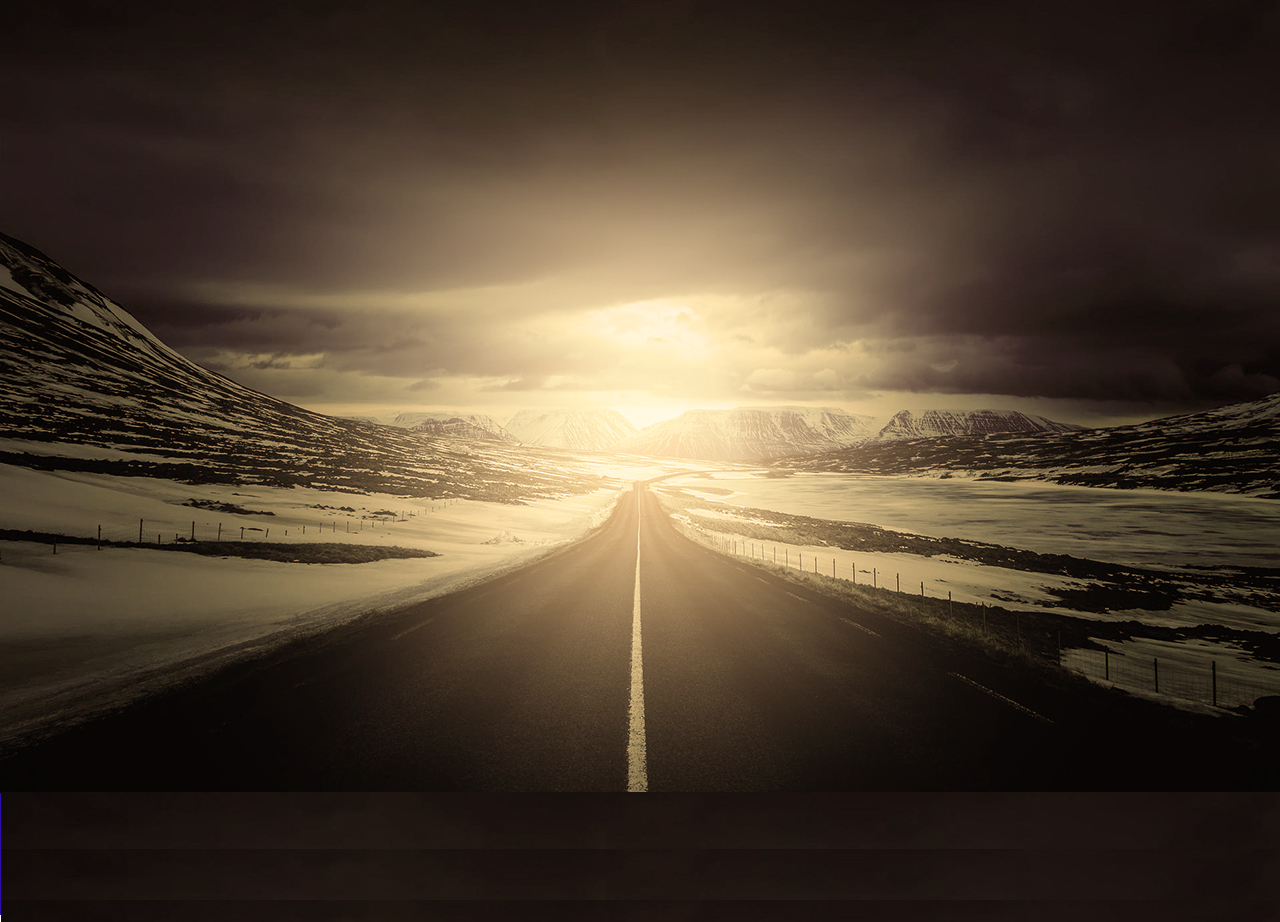
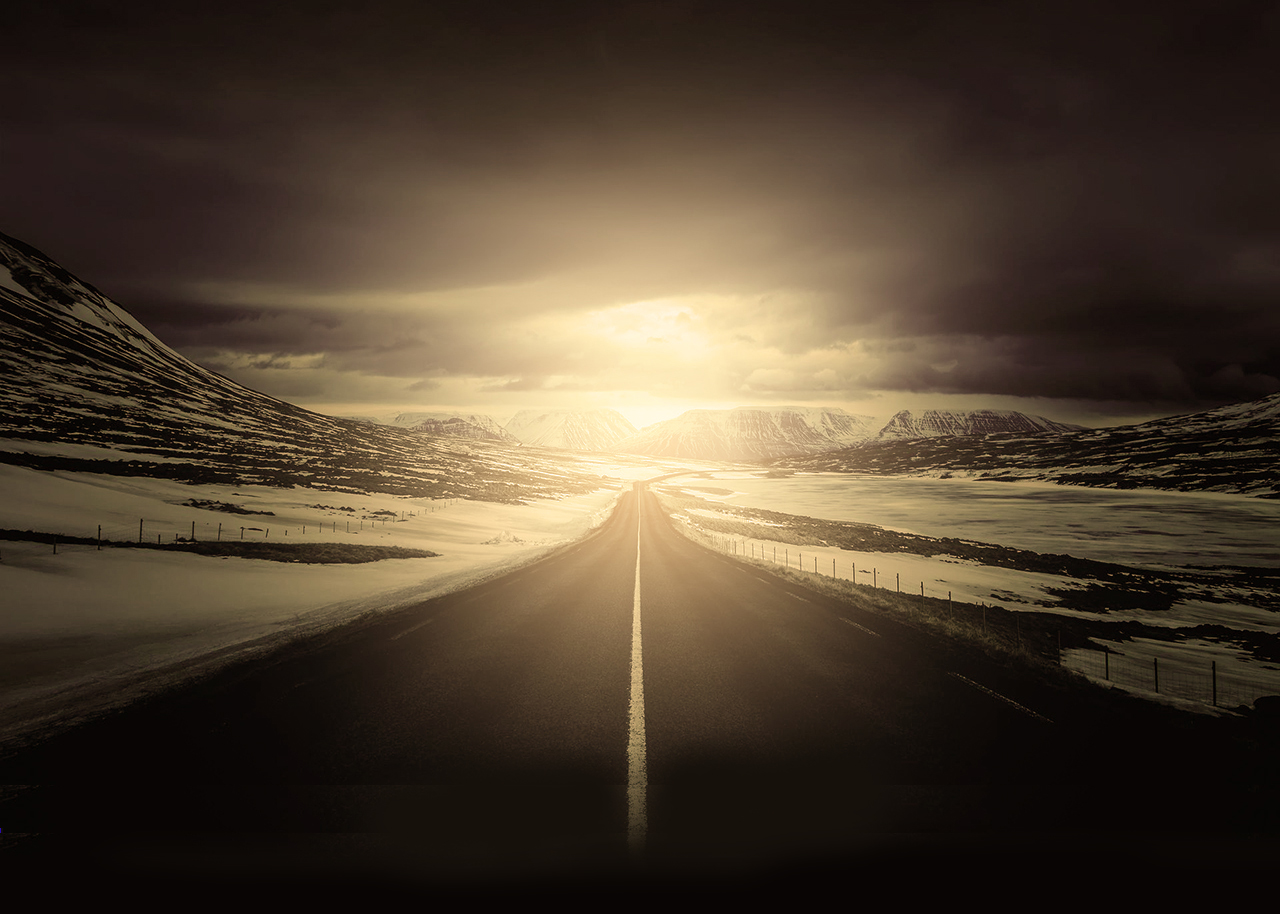
Enhanced UX

diff --git a/css/main.css b/css/main.css
@@ -5,6 +5,7 @@
    ========================================================================= */
 #preloader { position: fixed; left: 0; top: 0; z-index: 999; width: 100%; height: 100%; overflow: visible; background: #333 url('http://files.mimoymima.com/images/loading.gif') no-repeat center center; }
 #preloader div {position: absolute; left: 40%; top: 40%;}
+.shadow-inside {position: absolute; left: 0; bottom: 0; pointer-events: none; width: 100%; height: 600px; z-index: 99; background: linear-gradient(rgba(0,0,0,0), rgba(0,0,0,1))}
 /* ==========================================================================
     L  I  N  K   S  T  Y  L  E
    ========================================================================== */

diff --git a/mm/dragunov.html b/mm/dragunov.html
@@ -7,7 +7,7 @@
 </head>
 <body>
     <script>
-        marmoset.embed( 'dragunov.mview', { width: 800, height: 600, autoStart: false, fullFrame: false, pagePreset: false } );
+        marmoset.embed( 'dragunov.mview', { width: 600, height: 480, autoStart: false, fullFrame: false, pagePreset: false } );
     </script>
 </body>
 </html>

diff --git a/mm/Z3mf.html b/mm/Z3mf.html
@@ -7,7 +7,7 @@
 </head>
 <body>
     <script>
-        marmoset.embed( 'Z3mf.mview', { width: 800, height: 600, autoStart: false, fullFrame: false, pagePreset: false } );
+        marmoset.embed( 'Z3mf.mview', { width: 600, height: 480, autoStart: false, fullFrame: false, pagePreset: false } );
     </script>
 </body>
 </html>

diff --git a/index.php b/index.php
@@ -362,14 +362,20 @@
     </div>
 </div>
 <!--Z3MF-->
-<div class="row center" id="portfolio">
-    <div class="col s12 l12 left" >
-        <iframe src="mm/Z3mf.html" frameborder="0" webkitallowfullscreen mozallowfullscreen scrolling="no" style="overflow-y: hidden; width:75%;" allowfullscreen height="600"></iframe>
-    </div>
-</div>
+<!--<div class="row center" id="portfolio">-->
+<!--    <div class="col s12 l12 left" >-->
+<!--        <iframe src="mm/Z3mf.html" frameborder="0" webkitallowfullscreen mozallowfullscreen scrolling="no" style="overflow-y: hidden; width:50%;" allowfullscreen height="480"></iframe>-->
+<!--    </div>-->
+<!--</div>-->
 <!--Z3MF Details-->
 <div class="row">
-    <div class="col s12 m4 l4 left">
+    <div class="col s12 m6 l6 left">
+        <h5>Z3MF - Assault Rifle</h5>
+        <h6>Duration: 32 Hours</h6>
+        <hr class="left" style="width: 140px;"><br>
+
+        Z3MF is an automatic assault rifle. The Z3MF is a 5.56?45mm NATO, air-cooled, direct impingement gas-operated, magazine-fed.
+        It has a 26 inch barrel and a iron-sight stock. It also has a grenade launcher which fires 40mm x 46 HEPD-SD M99 (Point Detonating) grenade.
         <div class="grid" >
             <div class="grid-sizer"></div>
             <div class="grid-item">
@@ -399,34 +405,41 @@
             </div>
         </div>
     </div>
-    <div class="col s12 m5 l5 left">
-        <h5>Z3MF - Assault Rifle</h5>
-        <h6>Duration: 32 Hours</h6>
-        <hr class="left" style="width: 140px;"><br>
-
-        Z3MF is an automatic assault rifle. The Z3MF is a 5.56?45mm NATO, air-cooled, direct impingement gas-operated, magazine-fed.
-        It has a 26 inch barrel and a iron-sight stock. It also has a grenade launcher which fires 40mm x 46 HEPD-SD M99 (Point Detonating) grenade.
-    </div>
-    <div class="col s12 m3 l3 left">
-        <h5>Softwares Used</h5>
+<!--    <div class="col s12 m3 l3 left">-->
+<!--        <h5>Z3MF - Assault Rifle</h5>-->
+<!--        <h6>Duration: 32 Hours</h6>-->
+<!--        <hr class="left" style="width: 140px;"><br>-->
+<!---->
+<!--        Z3MF is an automatic assault rifle. The Z3MF is a 5.56?45mm NATO, air-cooled, direct impingement gas-operated, magazine-fed.-->
+<!--        It has a 26 inch barrel and a iron-sight stock. It also has a grenade launcher which fires 40mm x 46 HEPD-SD M99 (Point Detonating) grenade.-->
+<!--    </div>-->
+    <div class="col s12 m6 l6 left">
+        <h5>Interactive Model</h5>
         <hr class="left" style="width: 140px;"><br>
         <div class="row">
-            <div class="col s4 m4 l4 center"><img width="32" src="img/icon/soft/3dsmax.png" /><h6 class="light">3Ds Max</h6><br></div>
-            <div class="col s4 m4 l4 center"><img width="32" src="img/icon/soft/substance.png" /><h6 class="light">Substance Painter</h6><br></div>
-            <div class="col s4 m4 l4 center"><img width="32" src="img/icon/soft/cc.png" /><h6 class="light">AdobeSuite</h6><br></div>
+                <iframe src="mm/Z3mf.html" frameborder="0" webkitallowfullscreen mozallowfullscreen scrolling="no" style="overflow-y: hidden; width:100%;" allowfullscreen height="480"></iframe>
+<!--            <div class="col s4 m4 l4 center"><img width="32" src="img/icon/soft/3dsmax.png" /><h6 class="light">3Ds Max</h6><br></div>-->
+<!--            <div class="col s4 m4 l4 center"><img width="32" src="img/icon/soft/substance.png" /><h6 class="light">Substance Painter</h6><br></div>-->
+<!--            <div class="col s4 m4 l4 center"><img width="32" src="img/icon/soft/cc.png" /><h6 class="light">AdobeSuite</h6><br></div>-->
         </div>
     </div>
 </div>
 
 <!--Dragunov-->
-<div class="row center " id="portfolio">
-    <div class="col s12 l12 left" >
-        <iframe src="mm/dragunov.html" frameborder="0" webkitallowfullscreen mozallowfullscreen scrolling="no" style="overflow-y: hidden; width:75%; margin: 0 100px" allowfullscreen height="600" ></iframe>
-    </div>
-</div>
+<!--<div class="row center " id="portfolio">-->
+<!--    <div class="col s12 l12 left" >-->
+<!---->
+<!--    </div>-->
+<!--</div>-->
 <!--Dragunov Details-->
 <div class="row">
-    <div class="col s12 m4 l4 left">
+    <div class="col s12 m6 l6 left">
+        <h5>Dragunov SVD - Sniper Rifle</h5>
+        <h6>Duration: 38 Hours</h6>
+        <hr class="left" style="width: 140px;"><br>
+        Dragunov SVD is a semi-automatic sniper/designated marksman rifle chambered in 7.62x54mmR.
+        <br>
+        <br>
         <div class="grid" >
             <div class="grid-sizer"></div>
             <div class="grid-item">
@@ -451,19 +464,20 @@
             </div>
         </div>
     </div>
-    <div class="col s12 m5 l5 left">
-        <h5>Dragunov SVD - Sniper Rifle</h5>
-        <h6>Duration: 38 Hours</h6>
-        <hr class="left" style="width: 140px;"><br>
-            Dragunov SVD is a semi-automatic sniper/designated marksman rifle chambered in 7.62?54mmR.
-        </div>
-    <div class="col s12 m3 l3 left">
-        <h5>Softwares Used</h5>
+<!--    <div class="col s12 m3 l3 left">-->
+<!--        <h5>Dragunov SVD - Sniper Rifle</h5>-->
+<!--        <h6>Duration: 38 Hours</h6>-->
+<!--        <hr class="left" style="width: 140px;"><br>-->
+<!--            Dragunov SVD is a semi-automatic sniper/designated marksman rifle chambered in 7.62x54mmR.-->
+<!--    </div>-->
+    <div class="col s12 m6 l6 left">
+        <h5>Interactive Model</h5>
         <hr class="left" style="width: 140px;"><br>
         <div class="row">
-            <div class="col s4 m4 l4 center"><img width="32" src="img/icon/soft/3dsmax.png" /><h6 class="light">3Ds Max</h6><br></div>
-            <div class="col s4 m4 l4 center"><img width="32" src="img/icon/soft/substance.png" /><h6 class="light">Substance Painter</h6><br></div>
-            <div class="col s4 m4 l4 center"><img width="32" src="img/icon/soft/cc.png" /><h6 class="light">AdobeSuite</h6><br></div>
+            <iframe src="mm/dragunov.html" frameborder="0" webkitallowfullscreen mozallowfullscreen scrolling="no" style="overflow-y: hidden; width:100%;" allowfullscreen height="480" ></iframe>
+<!--            <div class="col s4 m4 l4 center"><img width="32" src="img/icon/soft/3dsmax.png" /><h6 class="light">3Ds Max</h6><br></div>-->
+<!--            <div class="col s4 m4 l4 center"><img width="32" src="img/icon/soft/substance.png" /><h6 class="light">Substance Painter</h6><br></div>-->
+<!--            <div class="col s4 m4 l4 center"><img width="32" src="img/icon/soft/cc.png" /><h6 class="light">AdobeSuite</h6><br></div>-->
         </div>
     </div>
 </div>
@@ -475,9 +489,9 @@
 
 
 <!--ShowReel VR-->
-<div class="row center hide-on-small-only" style="background-color: #333" id="portfolio">
+<div class="row center hide-on-small-only"  id="portfolio">
     <div class="col s12 l12 left">
-        <iframe src="https://player.vimeo.com/video/119261068?color=00ffcc&title=0&byline=0&portrait=0" width="480" height="320" frameborder="0" webkitallowfullscreen mozallowfullscreen allowfullscreen></iframe>
+        <iframe src="https://player.vimeo.com/video/119261068?color=00ffcc&title=0&byline=0&portrait=0" width="600" height="480" frameborder="0" webkitallowfullscreen mozallowfullscreen allowfullscreen></iframe>
     </div>
     <div class="col s12 l4 offset-l4">
         <h5>VR Showreel</h5>
@@ -487,7 +501,7 @@
     </div>
 </div>
 <!--Prince VR-->
-<div class="row" style="background-color: #333">
+<div class="row" >
     <div class="col s12 m4 l4 left">
         <div class="grid" >
             <div class="grid-sizer"></div>
@@ -524,10 +538,10 @@
         </div>
     </div>
     <div class="col s12 m5 l5 left">
-        <h5>CBL PRINCE? VR </h5>
+        <h5>CBL PRINCE&trade; VR </h5>
         <h6>Project Duration : 2 Months</h6>
         <hr class="left" style="width: 140px;"><br>
-        CBL Prince? VR Experience developed for Mall Activation in Karachi. All content from 3D Modelling to UE4 cooking process done by me.
+        CBL Prince&trade; VR Experience developed for Mall Activation in Karachi. All content from 3D Modelling to UE4 cooking process done by me.
     </div>
     <div class="col s12 m3 l3 left">
         <h5>Softwares Used</h5>
@@ -543,7 +557,7 @@
     </div>
 </div   >
 <!--TUC VR Ride-->
-<div class="row" style="background-color: #333">
+<div class="row">
     <div class="col s12 m4 l4 left">
         <div class="grid" >
             <div class="grid-sizer"></div>
@@ -569,7 +583,7 @@
             </div>
             <div class="grid-item">
                 <a href="img/portfolio/tucVR/5.png" data-lightbox="prince" data-title="Prince VR Experience">
-                    <img src="img/portfolio/tucVR/5.png" />
+                    <img 6src="img/portfolio/tucVR/5.png" />
                 </a>
             </div><div class="grid-item">
                 <a href="img/portfolio/tucVR/6.png" data-lightbox="prince" data-title="Prince VR Experience">
@@ -584,10 +598,11 @@
         </div>
     </div>
     <div class="col s12 m5 l5 left">
-        <h5>CBL TUC? VR RIDE</h5>
+        <h5>CBL TUC&trade; VR RIDE</h5>
         <h6>Project Duration : 1 Month</h6>
         <hr class="left" style="width: 140px;"><br>
-        TUC VR Ride is a VR experience developed for TUC LU?.
+        TUC VR Ride is a VR experience developed for TUC LU. I developed it for an BTL activation,
+        Everything in this project was developand designed by me
     </div>
     <div class="col s12 m3 l3 left">
         <h5>Softwares Used</h5>
@@ -627,7 +642,7 @@
         </div>
     </div>
     <div class="col s12 m5 l5 left">
-        <h5>CBL TUC? Vending Machine</h5>
+        <h5>CBL TUC&trade; Vending Machine</h5>
         <h6>Project Duration : 10 Days</h6>
         <hr class="left" style="width: 140px;"><br>
         Vending Machine is one of the greatest interactive user experience of our company that gave end user options of choosing favorite topping flavor.
@@ -719,23 +734,17 @@
 </div>
 
 <!--Other Projects-->
-<!--ShowReel VR-->
 <div class="row center hide-on-small-only" style="background-color: #262626" id="portfolio">
     <div class="col s12 l4 offset-l4">
         <h5>Other Projects</h5>
         <hr style="width: 140px;"><br>
         <!--Content Required-->
-        Visit my <a href="https://github.com/radean"> <h5>Github</h5> </a> profile for development projects <br>
+        Please visit my <a href="https://github.com/radean"> <span style="font-size: large; color: yellow">Github</span> </a> profile for development projects <br>
         My Previous Work on all Technologies.
     </div>
     <div class="col s12 m12 l12">
         <div class="gridOther" >
             <div class="grid-sizer-other"></div>
-            <div class="grid-item-other">
-                <a href="img/portfolio/misc/1.jpg" data-lightbox="Misc" data-title="Play Setup Design">
-                    <img src="img/portfolio/misc/1.jpg" />
-                </a>
-            </div>
             <div class="grid-item-other">
                 <a href="img/portfolio/misc/2.jpg" data-lightbox="Misc" data-title="TUC Setup Design">
                     <img src="img/portfolio/misc/2.jpg" />
@@ -851,6 +860,7 @@
                     <img src="img/portfolio/misc/24Thumb.jpg" />
                 </a>
             </div>
+            <div class="shadow-inside"></div>
         </div>
     </div>
 </div>
@@ -1010,7 +1020,7 @@
     </div>
     <div class="footer-copyright grey darken-3">
         <div class="container">
-            Made by <a class="brown-text text-lighten-3">Wajahat Mughal</a><a href="#!" class=" white-text right"> ver .1.42 @ 2018</a>
+            Made by <a class="brown-text text-lighten-3">Wajahat Mughal</a><a href="#!" class=" white-text right"> ver .1.84 @ 2018</a>
         </div>
     </div>
     <div class="footer-copyright grey darken-4">
